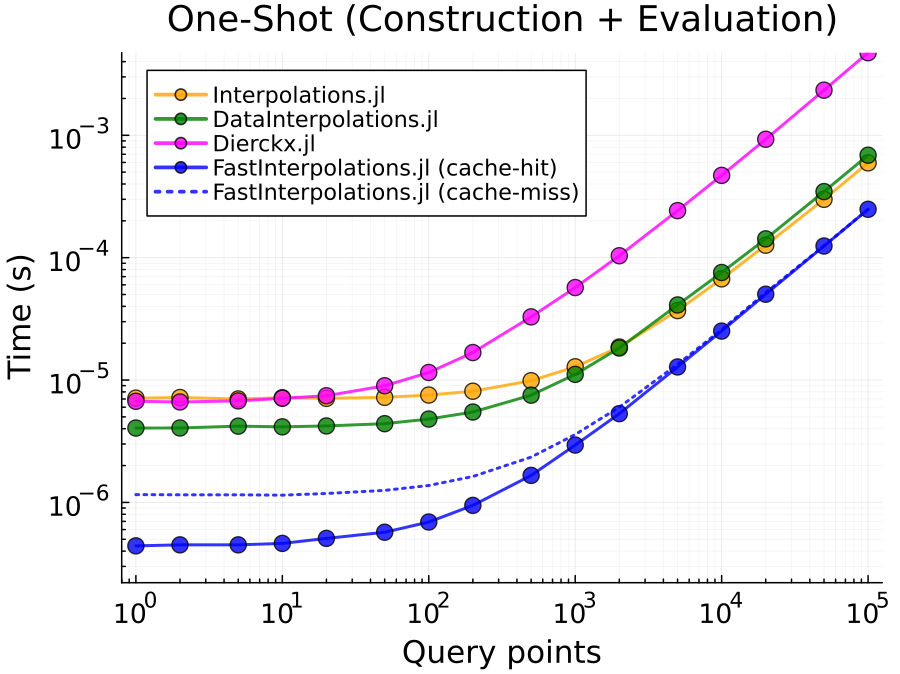
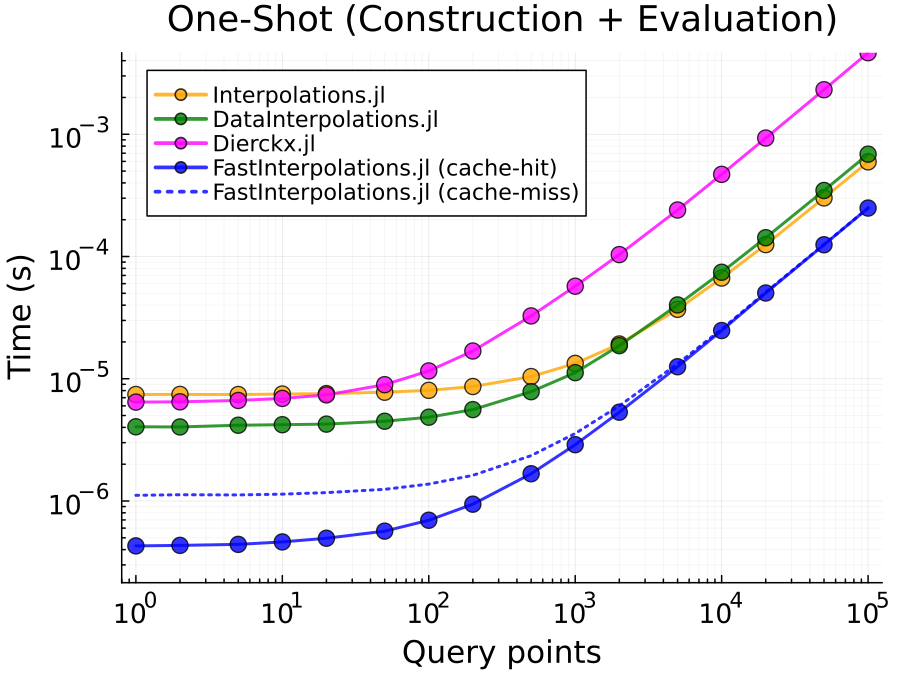
bump version to 0.4.19 and update benchmark results in README

diff --git a/README.md b/README.md
@@ -154,14 +154,14 @@ Comparison on a non-uniform 2D rectilinear grid for $f(x, y) = \sin(2\pi x) \cos
 
 Benchmark comparison against [Interpolations.jl](https://github.com/JuliaMath/Interpolations.jl), [DataInterpolations.jl](https://github.com/SciML/DataInterpolations.jl), and [Dierckx.jl](https://github.com/JuliaMath/Dierckx.jl) for **cubic spline interpolation**.
 <!-- BENCHMARK_VERSIONS_START -->
-> **Env:** Local · macOS 15.7.3 · Apple M1 Pro · Julia 1.12.6<br>
-> **Pkg:** FastInterpolations (v0.4.18) · Interpolations (v0.16.3) · DataInterpolations (v9.1.0) · Dierckx (v0.5.4)
+> **Env:** Local · macOS 15.7.3 · Apple M1 Pro · Julia 1.13.0<br>
+> **Pkg:** FastInterpolations (v0.4.19) · Interpolations (v0.16.3) · DataInterpolations (v10.1.3) · Dierckx (v0.5.4)
 <!-- BENCHMARK_VERSIONS_END -->
 
 ![One-Shot](docs/images/benchmark_oneshot_detail.png)
 
 <!-- BENCHMARK_SPEEDUP_START -->
-**Speedup:** (2.4 ~ 16.1)× vs `Interpolations.jl` · (2.8 ~ 9.3)× vs `DataInterpolations.jl` · (14.6 ~ 19.7)× vs `Dierckx.jl`
+**Speedup:** (2.4 ~ 17.3)× vs `Interpolations.jl` · (2.8 ~ 9.4)× vs `DataInterpolations.jl` · (14.9 ~ 19.8)× vs `Dierckx.jl`
 <!-- BENCHMARK_SPEEDUP_END -->
 
 One-shot (construction + evaluation) time per call with fixed grid size $n=100$. `FastInterpolations.jl` is significantly faster even on the first call (cache-miss), and becomes even faster on subsequent calls (cache-hit).
